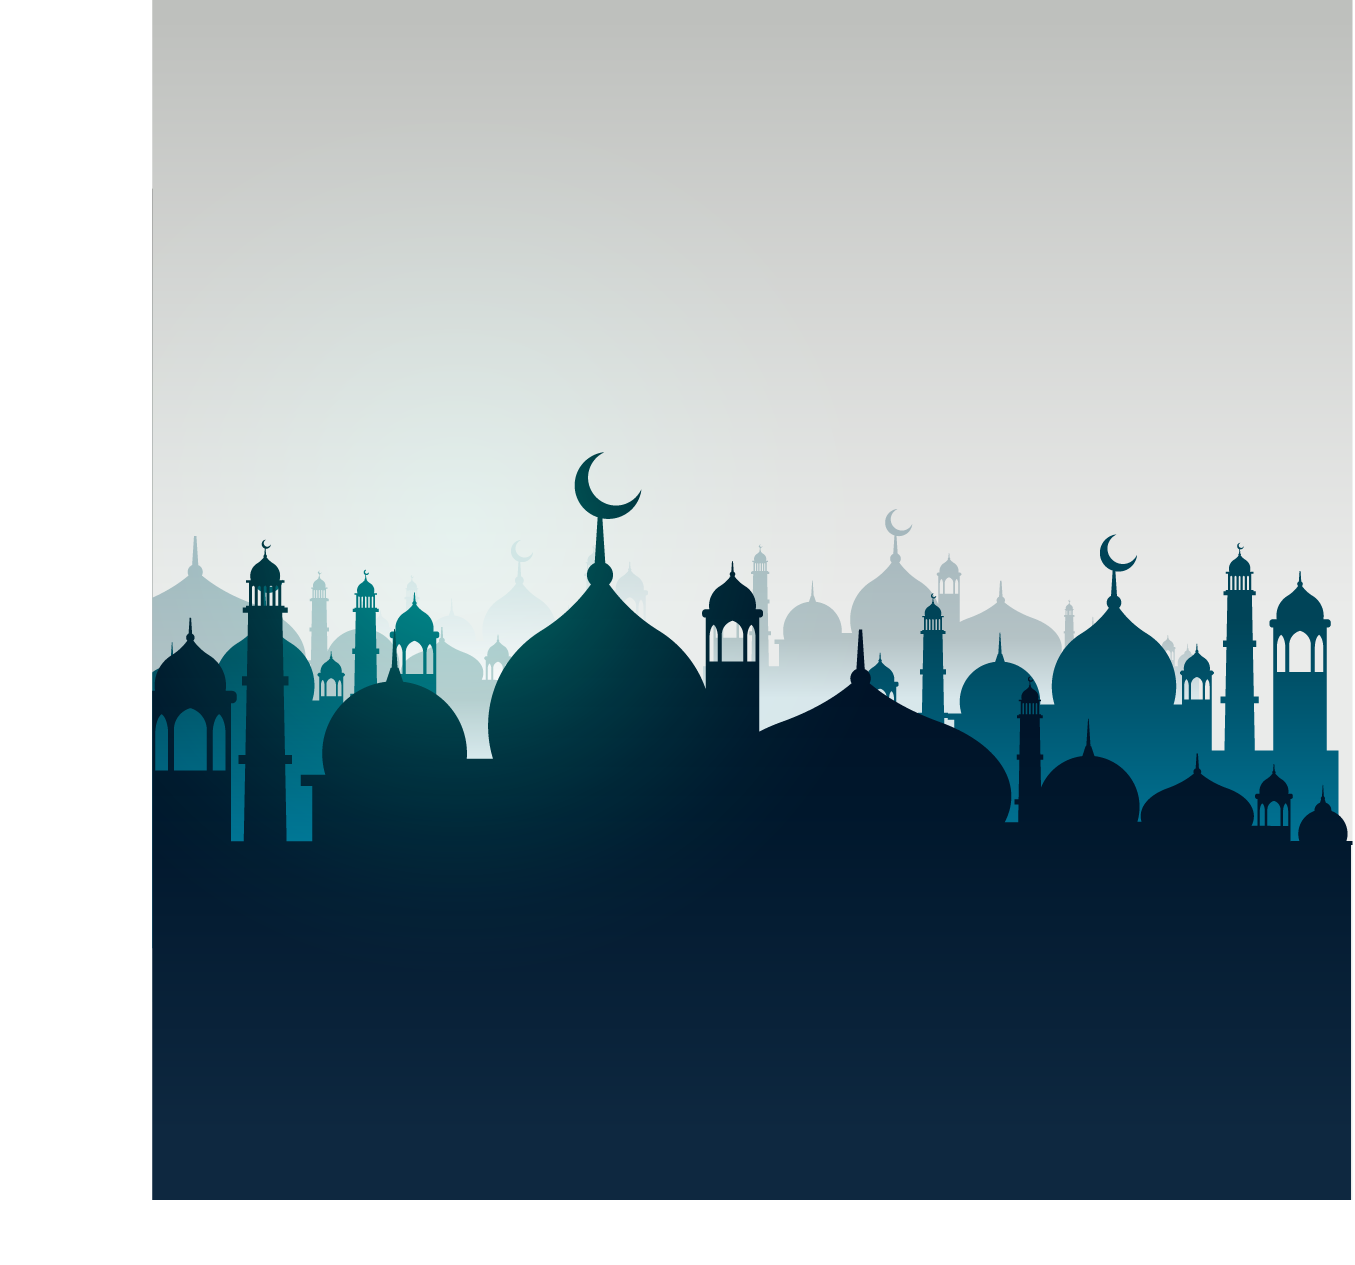
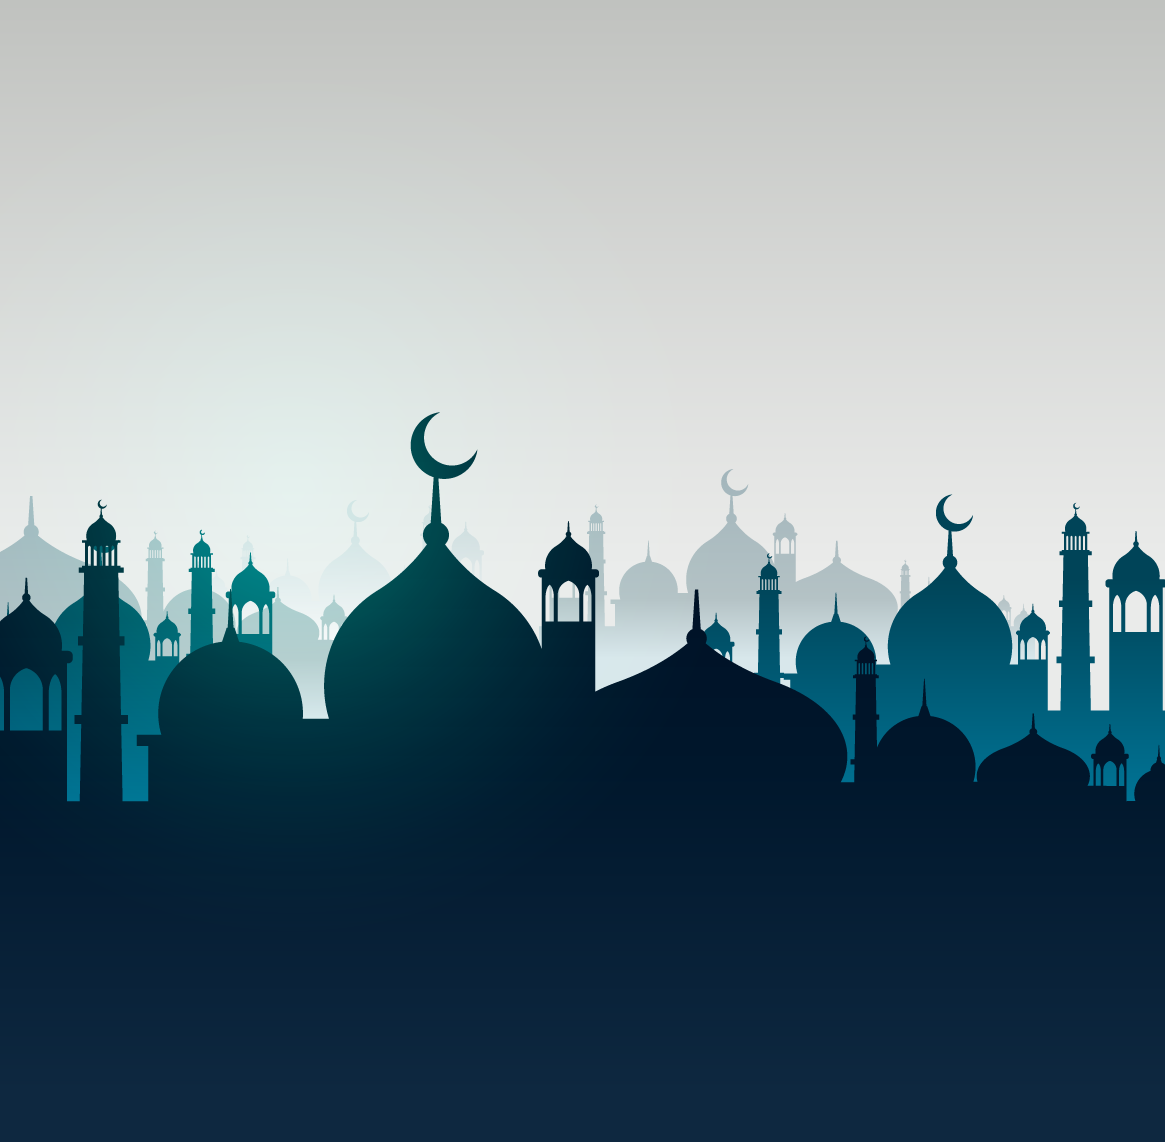
Update #1.1
Form Login dan Landing Page disesuaikan dengan landing page mosacc-frontend dari bayu

Changed region(s): [[0.0, 0.0, 1.0, 1.0], [0.9888, 0.0, 1.0, 0.3984]]

diff --git a/assets/js/algorithmJS/algorithmJS.js b/assets/js/algorithmJS/algorithmJS.js
@@ -12,6 +12,13 @@ function showPass() {
 	} else {
 		x.type = "password";
 	}
+
+	var y = document.getElementById("password2");
+	if (y.type === "password") {
+		y.type = "text";
+	} else {
+		y.type = "password";
+	}
 }
 
 function modalSucesssRegister() {
@@ -20,3 +27,25 @@ function modalSucesssRegister() {
 		$('#modal1').modal('open');
 	});
 }
+
+//modal salah password
+function modalSalahPasswordAkuntan() {
+	$(document).ready(function () {
+		$('#login-akuntan').modal();
+		$('#login-akuntan').modal('open');
+	});
+}
+function modalSalahPasswordManajer() {
+	$(document).ready(function () {
+		$('#login-manajer').modal();
+		$('#login-manajer').modal('open');
+	});
+}
+
+//submit login akuntan dan manajer
+$("#login-akuntan-btn").click(function () {
+	$("#form-login-akuntan").submit();
+});
+$("#login-manajer-btn").click(function () {
+	$("#form-login-manajer").submit();
+});

diff --git a/assets/css/manual-styles/algorithmCSS.css b/assets/css/manual-styles/algorithmCSS.css
@@ -4,15 +4,15 @@
 
 /* homepage */
 .card1:hover {
-	-moz-box-shadow: 0 0 50px blue;
-	-webkit-box-shadow: 0 0 50px blue;
-	box-shadow: 0 0 50px blue;
+	-moz-box-shadow: 0 0 50px grey;
+	-webkit-box-shadow: 0 0 50px grey;
+	box-shadow: 0 0 50px grey;
 }
 
 .card2:hover {
-	-moz-box-shadow: 0 0 50px blue;
-	-webkit-box-shadow: 0 0 50px blue;
-	box-shadow: 0 0 50px blue;
+	-moz-box-shadow: 0 0 50px grey;
+	-webkit-box-shadow: 0 0 50px grey;
+	box-shadow: 0 0 50px grey;
 }
 
 #rcorners1 {
@@ -29,3 +29,23 @@
 .overflow-hidden {
 	overflow: hidden;
 }
+
+.modal {
+	position: fixed;
+	left: 0;
+	right: 0;
+	background-color: #fafafa;
+	padding: 0;
+	max-height: 70%;
+	width: 40%;
+	margin: auto;
+	overflow-y: auto;
+	border-radius: 20px;
+	will-change: top, opacity;
+	max-height: 900px !important;
+  }
+  
+  .modal:focus {
+	outline: none;
+  }
+  

diff --git a/assets/css/manual-styles/styles.css b/assets/css/manual-styles/styles.css
@@ -99,7 +99,7 @@ li a:hover {
 }
 
 .content {
-	margin-left: 50px;
+	margin-left: 20px;
 }
 
 .breadcrumb-item {

diff --git a/application/views/homepage_v.php b/application/views/homepage_v.php
@@ -1,57 +1,127 @@
 <!DOCTYPE html>
-<html lang="en"" class="overflow-hidden">
+<html lang="en"" class=" overflow-hidden">
 
 <head>
     <title>Mosacc (Mosque Accounting)</title>
-    <?php $this->load->view('_partials/head.php') ?> 
+    <?php $this->load->view('_partials/head.php') ?>
 </head>
 
-<body>
+<body style="background: url('assets/images/mosque-vector.png') no-repeat center center fixed;margin:auto;background-size:cover;">
 
     <div>
         <!-- navbar&&sidebar -->
-
         <?php $this->load->view("_partials/navbar"); ?>
         <!-- /navbar&&sidebar -->
     </div>
-<div class=" bg-mosque container" style="background: url('assets/images/mosque-vector.png') no-repeat center center fixed !important;object-fit: cover !important;margin:auto !important;height: 600px !important;">
-<div class="row">
-    <div class="col s12 center teal-text">
-        <h6>Choose your position :</h6>
-    </div>
-</div>
-<div class="row center">
-    <div class="col s12 offset-s2">
-        <div class="col s3 m3">
-            <div class="card card1 teal darken-2 z-depth-4 card-homepage">
-                <a href="<?php echo base_url('login?jenis_user=accountant'); ?>">
-                    <div class="card-image waves-effect waves-block waves-light">
-                        <img class="activator" src="<?php echo base_url('assets/images/icon/accountant-icon.png'); ?>">
-                    </div>
-                    <div class="card-content">
-                        <span class="card-title activator white-text text-darken-4"> <b> Accountant </b></span>
-                    </div>
-                </a>
+    <div class="container">
+        <div class="row">
+            <div class="col s12 center teal-text">
+                <h6>Choose your position :</h6>
             </div>
         </div>
-        <div class="col s2"></div>
-        <div class="col s3 offset-s2 m3">
-            <div class="card card2 teal darken-2 z-depth-4 card-homepage">
-                <a href="<?php echo base_url('login?jenis_user=manager'); ?>">
-                    <div class="card-image waves-effect waves-block waves-light">
-                        <img class="activator" src="<?php echo base_url('assets/images/icon/manager-icon.jpg'); ?>">
+        <div class="row center">
+            <div class="col s12 offset-s2">
+                <div class="col s3 m3">
+                    <div class="card card1 teal darken-2 z-depth-4 card-homepage">
+                        <a href="#login-akuntan" class="modal-trigger">
+                            <div class="card-image waves-effect waves-block waves-light">
+                                <img class="activator" src="<?php echo base_url('assets/images/icon/accountant-icon.png'); ?>">
+                            </div>
+                            <div class="card-content">
+                                <span class="card-title activator white-text text-darken-4"> <b> Accountant </b></span>
+                            </div>
+                        </a>
                     </div>
-                    <div class="card-content">
-                        <span class="card-title activator white-text text-darken-4"> <b> Manager </b></span>
+                </div>
+                <div class="col s2"></div>
+                <div class="col s3 offset-s2 m3">
+                    <div class="card card2 teal darken-2 z-depth-4 card-homepage">
+                        <a href="#login-manajer" class="modal-trigger">
+                            <div class="card-image waves-effect waves-block waves-light">
+                                <img class="activator" src="<?php echo base_url('assets/images/icon/manager-icon.jpg'); ?>">
+                            </div>
+                            <div class="card-content">
+                                <span class="card-title activator white-text text-darken-4"> <b> Manager </b></span>
+                            </div>
+                        </a>
                     </div>
-                </a>
+                </div>
             </div>
         </div>
     </div>
-</div>
-</div>
-<!-- js -->
-<?php $this->load->view('_partials/js.php') ?>
+
+    <!-- modals -->
+    <?php $jenis_user = $this->input->get('jenis_user'); ?>
+    <div id="login-akuntan" class="modal">
+        <div class="modal-content center">
+            <img src="<?php echo base_url('assets/images/icon/accountant-icon.png'); ?>" alt="icon-akuntan" width="200px" height="200px">
+            <h4>Akuntan</h4>
+            <form action="<?php echo base_url('login/login_user?jenis_user=akuntan'); ?>" method="post" id="form-login-akuntan">
+                <div class="input-field col s3">
+                    <input id="password" type="password" name="password" class="validate" required>
+                    <label for="password">Masukkan Password</label>
+                </div>
+                <label>
+                    <input type="checkbox" onclick="showPass()" />
+                    <span>Show Password</span>
+                </label>
+                <?php
+                $masuk = $this->input->get('masuk');
+                if ($masuk != NULL && $jenis_user == 'akuntan') :
+                    ?>
+                    <h6 class="red-text">Invalid password. Please try again.</h6>
+                <?php
+                endif;
+                ?>
+            </form>
+        </div>
+        <div class="modal-footer">
+            <a href="#" id="login-akuntan-btn" class="modal-close waves-effect waves-green btn-flat">LOGIN</a>
+        </div>
+    </div>
+
+    <div id="login-manajer" class="modal">
+        <div class="modal-content center">
+            <img src="<?php echo base_url('assets/images/icon/manager-icon.jpg'); ?>" alt="icon-manajer" width="200px" height="200px">
+            <h4>Manajer</h4>
+            <form action="<?php echo base_url('login/login_user?jenis_user=manajer'); ?>" method="post" id="form-login-manajer">
+                <div class="input-field col s3">
+                    <input id="password2" type="password" class="validate" required>
+                    <label for="password2">Masukkan Password</label>
+                </div>
+                <label>
+                    <input type="checkbox" onclick="showPass()" />
+                    <span>Show Password</span>
+                </label>
+                <?php
+                $masuk = $this->input->get('masuk');
+                if ($masuk != NULL && $jenis_user == 'manajer') :
+                    ?>
+                    <h6 class="red-text">Invalid password. Please try again.</h6>
+                <?php
+                endif;
+                ?>
+            </form>
+        </div>
+        <div class="modal-footer">
+            <a href="#!" id="login-manajer-btn" class="modal-close waves-effect waves-green btn-flat">LOGIN</a>
+        </div>
+    </div>
+    <!-- end modals -->
+
+    <!-- js -->
+    <?php $this->load->view('_partials/js.php') ?>
+    <script>
+        <?php
+        if ($masuk != NULL && $jenis_user == 'akuntan') {
+            ?>
+            modalSalahPasswordAkuntan();
+        <?php }
+        if ($masuk != NULL && $jenis_user == 'manajer') {
+            ?>
+            modalSalahPasswordManajer();
+        <?php } ?>
+    </script>
 </body>
 
 </html>

diff --git a/application/controllers/Login.php b/application/controllers/Login.php
@@ -23,19 +23,15 @@ class Login extends CI_Controller
 
   function login_user()
   {
-
-    $username = $this->input->post('username');
     $password = $this->input->post('password');
     $jenis_user = $this->input->get('jenis_user');
-    $jenis_user_tested = $this->input->post('jenis_user');
     $status = 'online';
     $data['user'] = $this->user_model->get_user();
     $masuk = 0;
     foreach ($data['user']->result() as $user) :
-      if ($user->NIP == $username && $user->password == $password && $user->jenis_user == $jenis_user_tested) {
+      if ($user->password == $password && $user->jenis_user == $jenis_user) {
         $masuk = 1;
         $arraydata = array(
-          'nip' => $user->NIP,
           'jenis_user' => $user->jenis_user,
           'nama_user' => $user->nama_user,
           'status' => $status
@@ -44,11 +40,17 @@ class Login extends CI_Controller
       }
     endforeach;
 
-    if ($masuk == 1 && $jenis_user_tested == 'accountant') {
+    if ($masuk == 1 && $jenis_user == 'akuntan') {
       redirect('acc/dashboard');
-    } else {
-      // redirect('welcome/login');
-      redirect('login?jenis_user=' . $jenis_user_tested . '&&masuk=0');
+    }
+    if ($masuk == 1 && $jenis_user == 'manajer') {
+      redirect('mgr/dashboard');
+    } 
+    if ($masuk == 0 && $jenis_user == 'akuntan') {
+      redirect('homepage?masuk=0&&jenis_user=akuntan');
+    }
+    if ($masuk == 0 && $jenis_user == 'manajer') {
+      redirect('homepage?masuk=0&&jenis_user=manajer');
     }
   }
 

diff --git a/application/controllers/Homepage.php b/application/controllers/Homepage.php
@@ -3,7 +3,7 @@ defined('BASEPATH') or exit('No direct script access allowed');
 
 class Homepage extends CI_Controller
 {
-    
+
   public function __construct()
   {
     parent::__construct();
@@ -11,10 +11,16 @@ class Homepage extends CI_Controller
 
   public function index()
   {
-    $this->load->view('homepage_v.php');
-    
+    if ($this->session->userdata('status') == NULL) {
+      $this->load->view('homepage_v.php');
+    }
+    elseif($this->session->userdata('jenis_user') == 'manajer'){
+      redirect('mgr/dashboard');
+    }
+    elseif($this->session->userdata('jenis_user') == 'akuntan'){
+      redirect('acc/dashboard');
+    }
   }
-
 }
 
 
